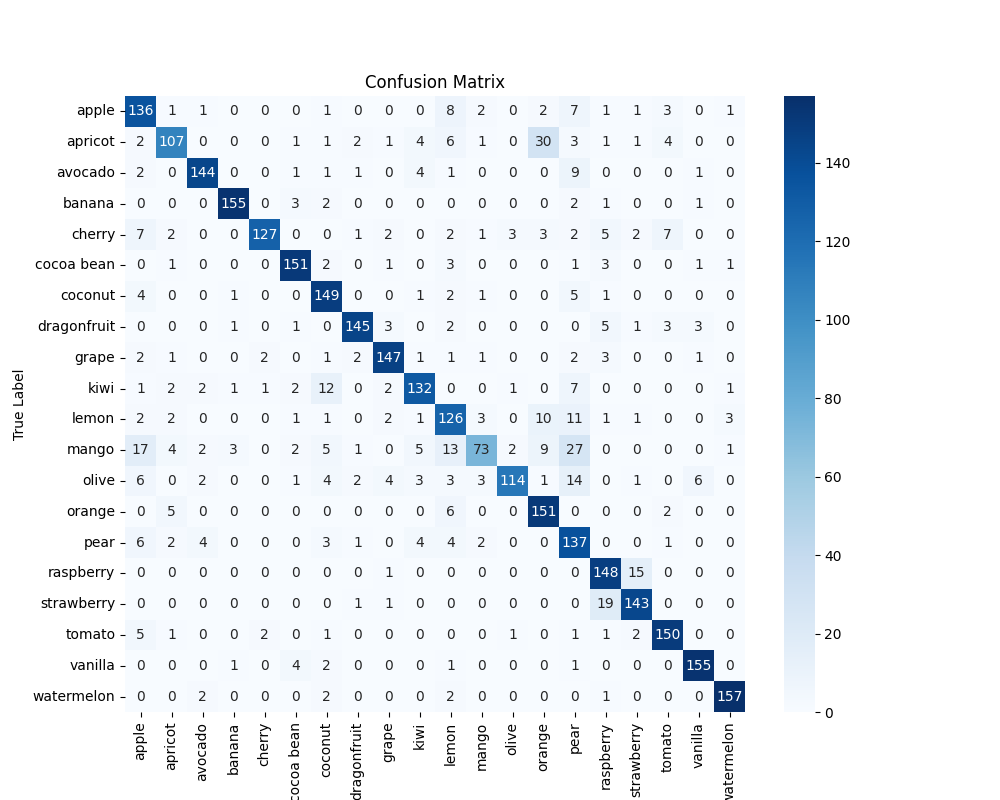
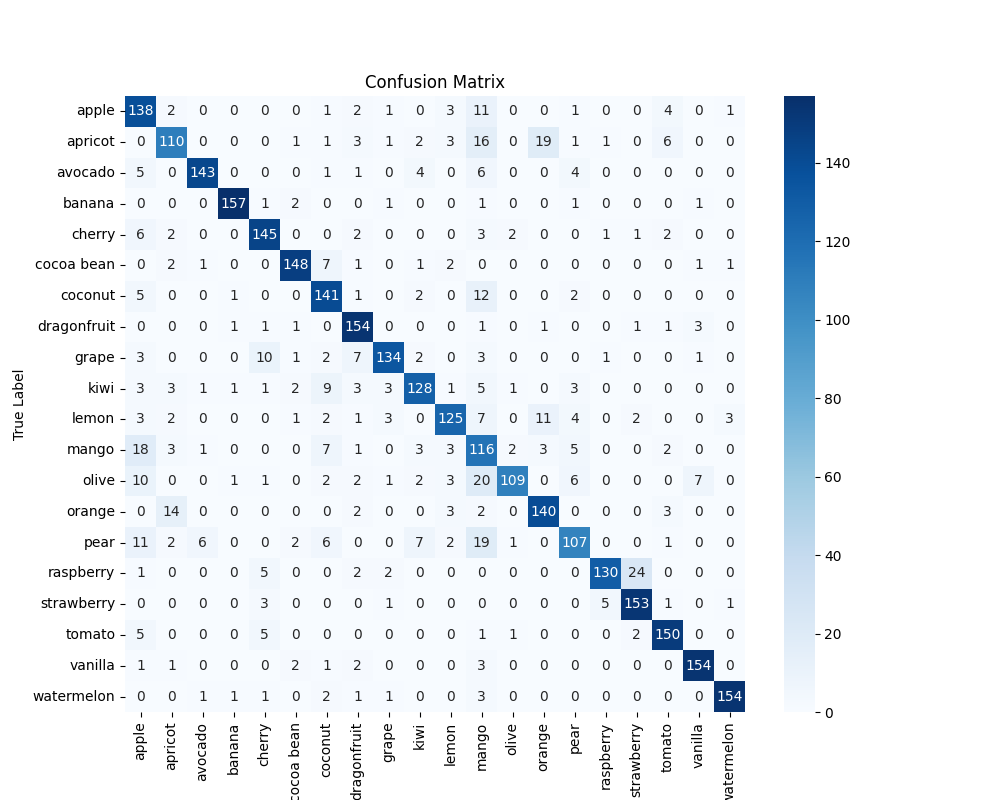
updates

diff --git a/ResNet/Test.py b/ResNet/Test.py
@@ -3,7 +3,7 @@ import tensorflow as tf
 import matplotlib.pyplot as plt
 import seaborn as sns
 import os
-from sklearn.metrics import confusion_matrix
+from sklearn.metrics import classification_report, confusion_matrix
 
 # Load the model
 model = tf.keras.models.load_model("ResNet.h5")
@@ -46,6 +46,21 @@ y_pred = np.argmax(predictions, axis=1)
 # Prepare true labels
 true_labels = np.concatenate([y for x, y in test_dataset], axis=0)
 y_true = np.argmax(true_labels, axis=1)
+
+print("Classification Report")
+target_names = class_names
+print(classification_report(y_true, y_pred, target_names=target_names))
+
+# write precision, recall, f1-score to terminal
+from sklearn.metrics import precision_recall_fscore_support
+
+precision, recall, f1_score, _ = precision_recall_fscore_support(
+    y_true, y_pred, average="macro"
+)
+print(f"Precision: {precision}")
+print(f"Recall: {recall}")
+print(f"F1 Score: {f1_score}")
+
 
 # Compute the confusion matrix
 confusion_mtx = confusion_matrix(y_true, y_pred)

diff --git a/InceptionNet/Test.py b/InceptionNet/Test.py
@@ -51,6 +51,15 @@ from sklearn.metrics import classification_report
 print("Classification Report")
 print(classification_report(test_generator.classes, y_pred, target_names=class_names))
 
+from sklearn.metrics import precision_recall_fscore_support
+
+precision, recall, f1_score, _ = precision_recall_fscore_support(
+    test_generator.classes, y_pred, average="macro"
+)
+print(f"Precision: {precision}")
+print(f"Recall: {recall}")
+print(f"F1 Score: {f1_score}")
+
 # Calculate confusion matrix
 confusion_mtx = confusion_matrix(test_generator.classes, y_pred)
 

diff --git a/CNN/Test.py b/CNN/Test.py
@@ -49,6 +49,16 @@ print("Classification Report")
 target_names = class_names
 print(classification_report(y_true, y_pred, target_names=target_names))
 
+# write precision, recall, f1-score to terminal
+from sklearn.metrics import precision_recall_fscore_support
+
+precision, recall, f1_score, _ = precision_recall_fscore_support(
+    y_true, y_pred, average="macro"
+)
+print(f"Precision: {precision}")
+print(f"Recall: {recall}")
+print(f"F1 Score: {f1_score}")
+
 # Plot the confusion matrix
 import seaborn as sns
 

diff --git a/CNN/CNN_training.py b/CNN/CNN_training.py
@@ -66,6 +66,8 @@ model = models.Sequential(
 
 optimizer = SGD(learning_rate=0.001, momentum=0.9)
 
+model.summary()
+
 
 # Callback class
 class myCallback(tf.keras.callbacks.Callback):
